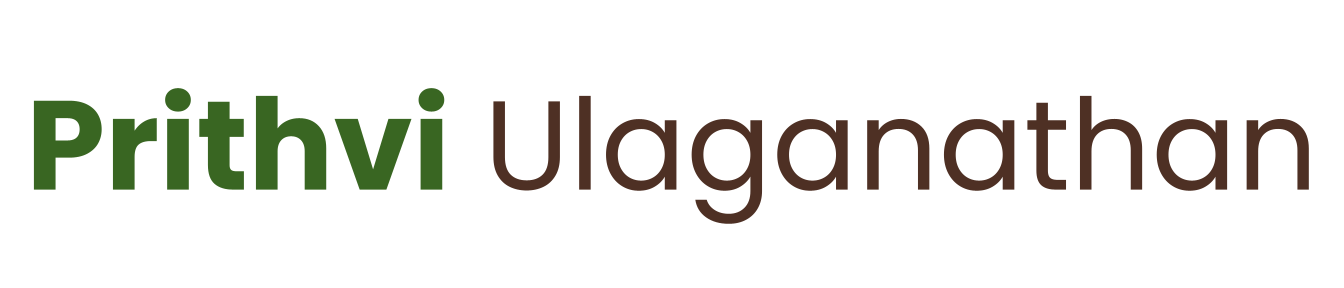
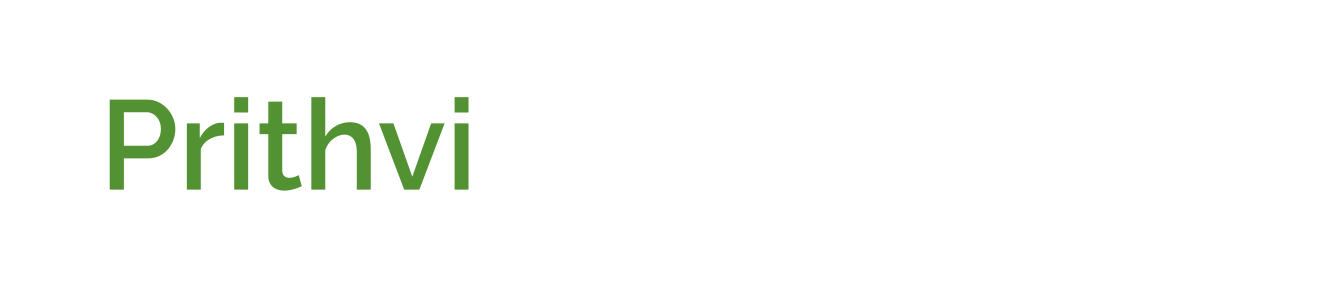
redesign

Changed region(s): [[0.0, 0.3125, 1.0, 0.7812]]

diff --git a/home.css b/home.css
@@ -1,3 +1,6 @@
+@import url('https://fonts.googleapis.com/css2?family=Raleway:wght@300&display=swap');
+@import url('https://fonts.googleapis.com/css2?family=Raleway:wght@300;600&display=swap');
+
 @font-face {
     font-family: Prompt;
     src: url(fonts/poppins/Poppins-Regular.ttf);
@@ -29,15 +32,16 @@ a {
     --gray: #4e3024;
     --silver: #ccaa88;
     --gray2: #595959;
-    --primary2: #418d20;
+    --primary2: #529232;
+    --gray3: #44413f;
 }
 
 body {
     width: 100%;
     margin: 0px;
-    background-color: #ebebeb;
-    background-color: var(--secondary);
-    font-family:"Prompt", "Trebuchet MS", 'Franklin Gothic Medium', 'Arial Narrow', Arial, sans-serif;
+    background-color: #44413f;
+    background-color: var(--gray3);
+    font-family:"Raleway", "Trebuchet MS", 'Franklin Gothic Medium', 'Arial Narrow', Arial, sans-serif;
 }
 
 /* HEADER */
@@ -50,10 +54,12 @@ body {
     width: 15%;
     height: 150%;
 
-    font-family: "Prompt";
+    font-family: "Raleway";
     background-color: #396622;
     background-color: var(--primary);
     padding: 10% 2%;
+
+    box-shadow: 0px 0px 10px black;
 }
 
 .headItem {
@@ -209,25 +215,25 @@ body {
 #gradient {
     display: block;
     padding-bottom: 5%;
-    background: linear-gradient(0deg, rgba(0,0,0,0.5), transparent)
+    background: linear-gradient(0deg, rgba(0,0,0,0.8), rgba(0,0,0,0.5))
 }
 
 #logo {
     margin-top: 0;
     margin-bottom: 2.5%;
-    padding-left: 5%;
     padding-right: 5%;
     width: 33%;
     background-color: rgba(235, 235, 235, 0.8);
+    background-color: transparent;
 }
 
 #logo2 {
     margin-top: 0;
     margin-bottom: 2%;
-    padding-left: 5%;
     padding-right: 5%;
     width: 30%;
     background-color: rgba(235, 235, 235, 0.8);
+    background-color: transparent;
 }
 /* SOCIALS 
 
@@ -281,7 +287,7 @@ DEACTIVATED due to ugliness
 }
 
 .topic {
-    font-family: "Bebas";
+    font-weight: 600;
     margin-bottom: 0;
     font-size: 2.1em;
 }
@@ -316,13 +322,14 @@ iframe {
 }
 
 .desc {
-    background-color: black;
+    background: linear-gradient(90deg, #000000dd, #000000aa);
     color: white;
-    font-family: "Prompt-Bold";
-    opacity: 0.75;
-    text-align: center;
-    margin:0px;
-    margin-top: 15em;
+    display: flex;
+    align-items: center;
+    margin: 0px;
+    padding-left: 0.5em;
+    font-size: 2em;
+    height: 30vw;
 }
 
 #popup {
@@ -402,7 +409,7 @@ iframe {
     margin: 0;
     background-color: rgba(0,0,0,0.5);
     text-align: center;
-    font-family: "Prompt-Bold";
+    font-weight: 600;
     padding: 0.5% 2%;
     color: white;
     width: 95%;
@@ -413,7 +420,7 @@ iframe {
     align-self: center;
     background-color: rgba(0,0,0,0.5);
     text-align: center;
-    font-family: "Prompt-Bold";
+    font-weight: 600;
     padding: 0.5% 2%;
     color: white;
     width: 5%;
@@ -421,18 +428,19 @@ iframe {
 
 .closeGroup:hover {
     cursor: pointer;
-    color: #396622;
-    color: var(--primary); 
+    color: #529232;
+    color: var(--primary2); 
 }
 
 .togglableGroup {
-    border: 1em solid rgba(0,0,0, 0.8);
+    padding: 1em 0em;
+    background-color: #5a5754;
 }
 
 .subheading2 {
     padding: 0.5% 2%;
-    color: #396622;
-    color: var(--primary); 
+    color: #529232;
+    color: var(--primary2);
 }
 
 .subtext, .subtext2 {
@@ -440,6 +448,7 @@ iframe {
     padding: 0.5% 2%;
     color: #4e3024;
     color: var(--gray);
+    color: white;
 }
 
 .subtext2 {
@@ -451,8 +460,6 @@ iframe {
     .subtext, .subtext2 {
         font-size: 1.1em;
         padding: 0.5% 4%;
-        color: #4e3024;
-        color: var(--gray);
     }
     
     .subtext2 {
@@ -511,6 +518,10 @@ iframe {
         width: 90%;
         margin-left: 5%;
         margin-right: 5%;
+    }
+
+    .desc {
+        font-size: 1.3em;
     }
 
     iframe {

diff --git a/index.html b/index.html
@@ -6,6 +6,8 @@
         <title>Prithvi Ulaganathan</title>
         <link rel="stylesheet" type="text/css" href="home.css"/>
         <link rel="icon" type="image/png" href="images/PrithviUFavicon.png"/>
+        <style>
+        </style>
     </head>
 <body>
     <div id="header">
@@ -45,8 +47,6 @@
                 <td class="gallImg" onclick="gotolink('Projects.html')" onmouseover="highlight(this)" onmouseout="unlight(this)" style="background-image:url(images/IMG_8078.jpg);"><div class="desc">Projects</div></td>
             </tr>
           </table> 
-
-        <iframe width="90%" height="315" src="https://www.youtube.com/embed/wnCAWynIKzc" title="YouTube video player" frameborder="0" allow="accelerometer; autoplay; clipboard-write; encrypted-media; gyroscope; picture-in-picture" allowfullscreen></iframe>
     </div>
 
     <!--

diff --git a/scripts/home.js b/scripts/home.js
@@ -415,12 +415,11 @@ document.getElementById("browsebar").addEventListener("keypress", function(e) {
 //Gallery stuff below
 
 function highlight(i) {
-    i.children[0].style.opacity="1";
+    i.children[0].style.background="linear-gradient(90deg, #000000ff, #000000aa)";
 }
 
 function unlight(img) {
-    img.children[0].style.opacity="0.75";
-    img.children[0].style.borderRadius="0 0 0 0";
+    img.children[0].style.background="linear-gradient(90deg, #000000dd, #000000aa)";
 }
 
 function larger(img, category) { //for home page

diff --git a/Contact.html b/Contact.html
@@ -38,7 +38,7 @@
     </div>
 
     <div id="content">
-        <a style="color:#396622" href="https://linkedin.com/in/prithvi-ulaganathan" target="_blank" id="contenttext">LinkedIn</a>
+        <a style="color:#529232;margin-left:1em;font-size:1.5em;" href="https://linkedin.com/in/prithvi-ulaganathan" target="_blank" id="contenttext">LinkedIn</a>
     </div>
 
     <!--

diff --git a/Overview.html b/Overview.html
@@ -38,7 +38,7 @@
     </div>
 
     <div id="content">
-        
+        <iframe width="90%" height="315" src="https://www.youtube.com/embed/wnCAWynIKzc" title="YouTube video player" frameborder="0" allow="accelerometer; autoplay; clipboard-write; encrypted-media; gyroscope; picture-in-picture" allowfullscreen></iframe>
     </div>
 
     <!--
